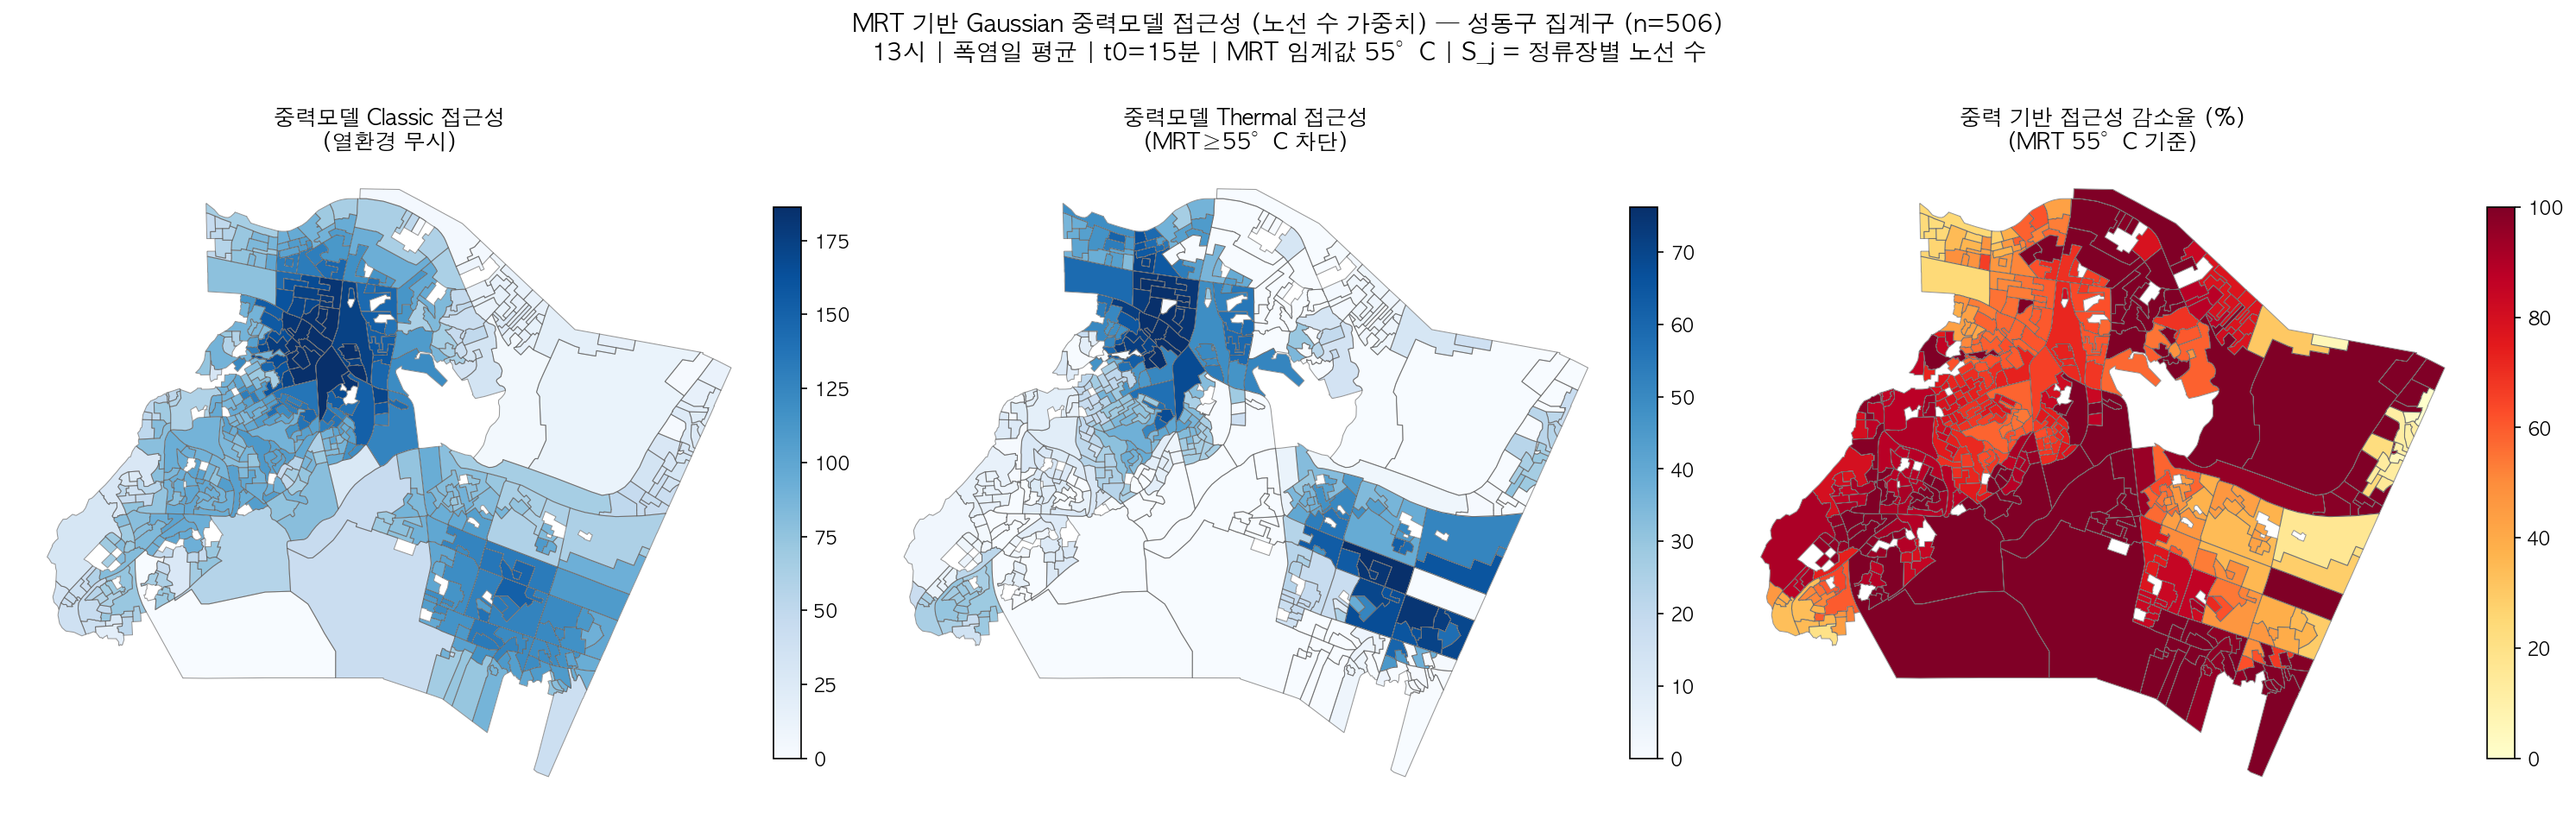
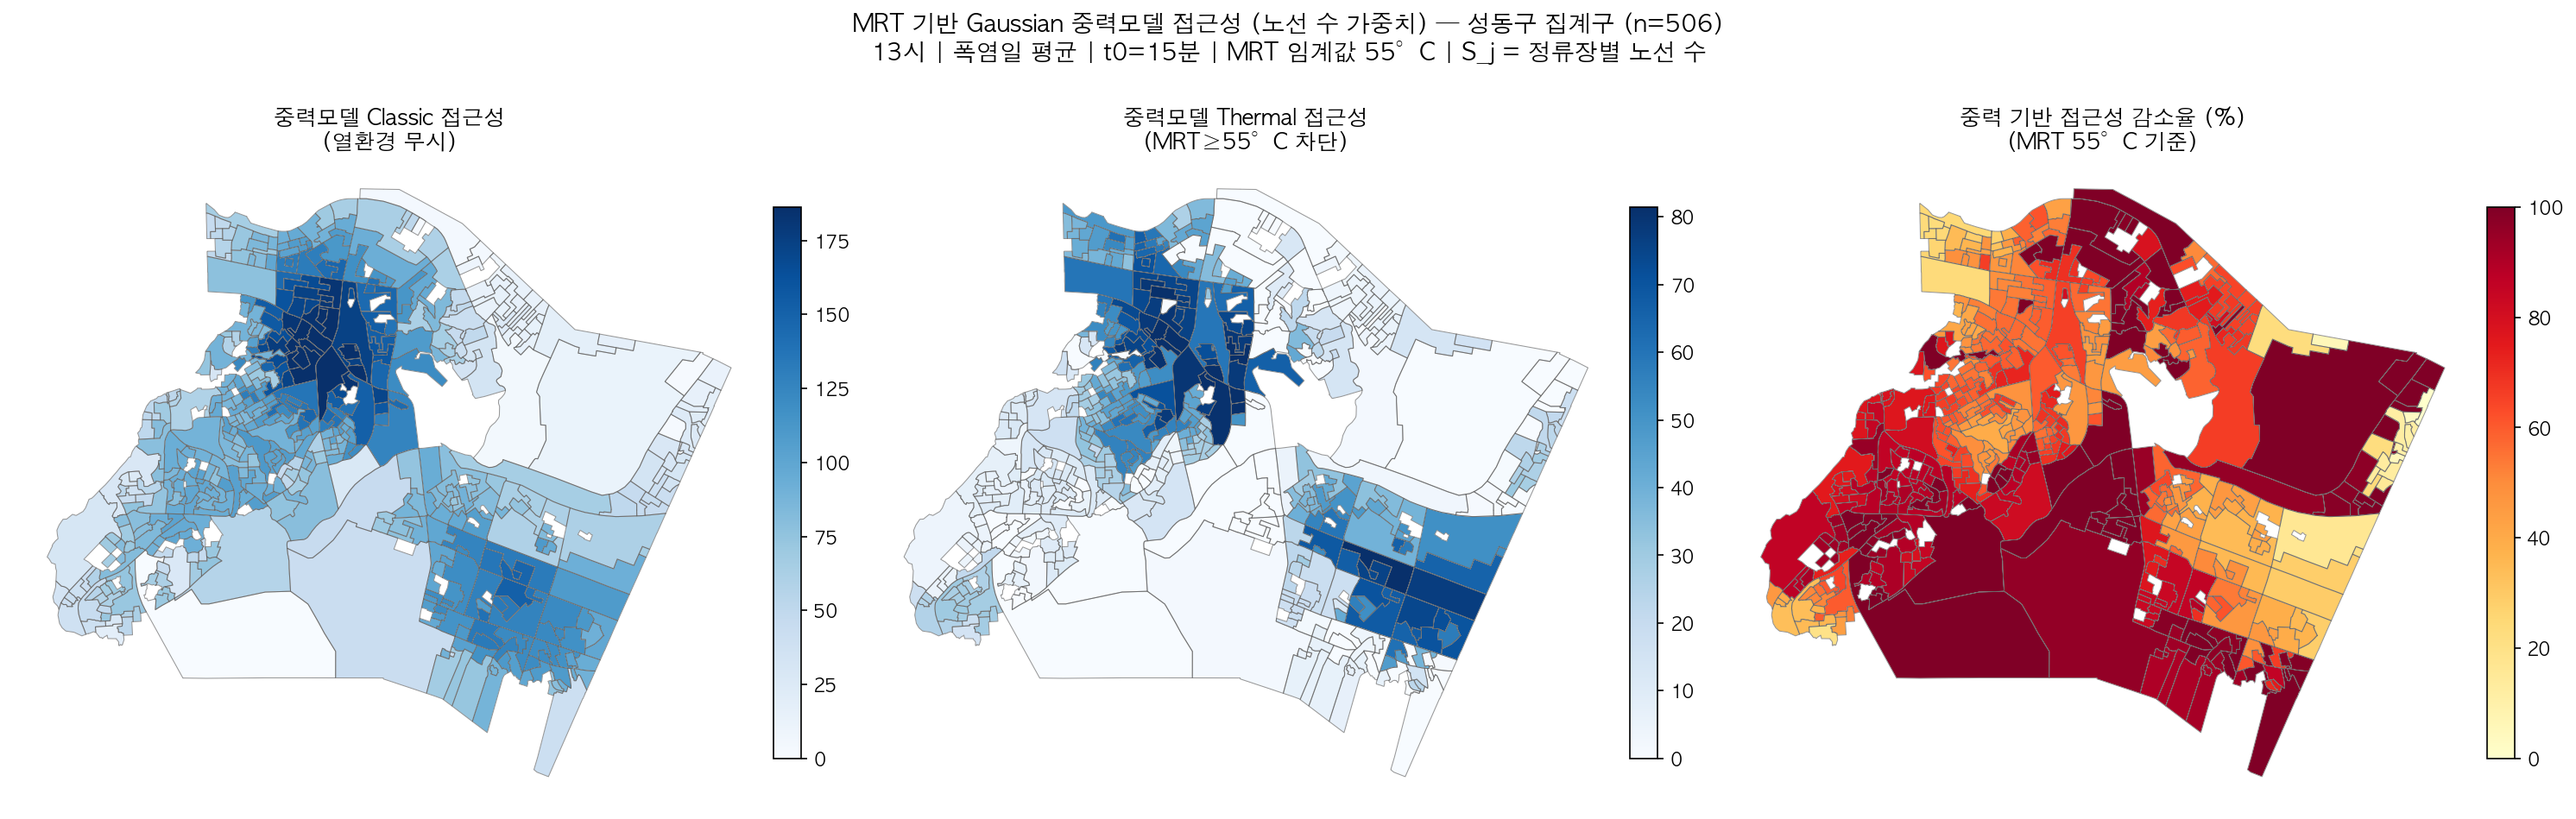
Fix: study_note 수치 최신화 + 누락 파일 커밋
- Thermal_Catchment.md: 평균 감소율 67.6%→68.0%, 완전차단 69개(13.6%)→75개(13.3%)
- SVF.md, Monte_Carlo.md: 캐노피 수정 후 내용 반영본
- 15_svf_per_link.py: 도시숲 전체 범주 + 10m 캐노피 높이 적용 버전
- figures: mc/gravity 최신 그래프

diff --git a/Thermal_Catchment/02_코드/15_svf_per_link.py b/Thermal_Catchment/02_코드/15_svf_per_link.py
@@ -39,6 +39,7 @@ OUT_PATH   = os.path.join(RES_DIR, 'link_svf_canopy.csv')
 
 BULD_BUFFER  = 20   # m — H 계산을 위한 링크 주변 건물 탐색 반경
 CANOPY_BUFFER = 15  # m — 가로수 캐노피 측정 링크 버퍼
+TREE_HEIGHT  = 10.0  # m — 수목 캐노피 높이 (UMEP TreePlanter Tutorial; Lindberg et al.)
 
 # 도로 유형별 표준 폭 (m) — 국토부 도로설계기준 / OSM 실측 통계
 # 양방향 차로 포함 전체 노면폭 기준
@@ -98,8 +99,8 @@ buld = buld[buld.geometry.is_valid].copy().reset_index(drop=True)
 buld_sindex = buld.sindex
 print(f"  성동구 건물: {len(buld):,}개 | 평균높이 {buld['height_m'].mean():.1f}m")
 
-# ── 녹지(가로수) 데이터 로드 ────────────────────────────────────────────
-print("가로수 데이터 로드 중...")
+# ── 녹지(전체 도시숲) 데이터 로드 ──────────────────────────────────────
+print("도시숲 데이터 로드 중...")
 green_raw = gpd.read_file(GREEN_PATH)
 bbox_gdf = gpd.GeoDataFrame(
     geometry=[Point(127.015, 37.535), Point(127.065, 37.565)], crs='EPSG:4326'
@@ -107,35 +108,38 @@ bbox_gdf = gpd.GeoDataFrame(
 xmin, ymin = bbox_gdf.geometry[0].x, bbox_gdf.geometry[0].y
 xmax, ymax = bbox_gdf.geometry[1].x, bbox_gdf.geometry[1].y
 green = green_raw.cx[xmin:xmax, ymin:ymax].copy()
-street_trees = green[green['U2_NAM'] == '가로수'].copy().reset_index(drop=True)
+street_trees = green.copy().reset_index(drop=True)   # 도시숲·마을숲·경관숲·학교숲·가로수 전체
 tree_sindex = street_trees.sindex
-print(f"  성동구 가로수: {len(street_trees):,}개")
+print(f"  성동구 도시숲(전체): {len(street_trees):,}개 | 유형: {street_trees['U2_NAM'].value_counts().to_dict()}")
 
 
 # ── SVF 계산 함수 (Oke 1987) ────────────────────────────────────────────
-def calc_svf_hw(link_geom, highway_val):
+def calc_svf_hw(link_geom, highway_val, canopy_ratio=0.0):
     """
     Oke(1987) H/W street canyon 공식으로 SVF 계산
-      H = 링크 버퍼 20m 내 건물 평균 높이
+      H_eff = 건물 평균 높이 + TREE_HEIGHT × canopy_ratio  (캐노피 차폐 반영)
       W = 도로 유형별 표준 폭
-      SVF = 1 / sqrt(1 + (H/W)^2)
-    건물이 없으면 SVF = 1.0 (개활지)
+      SVF = 1 / sqrt(1 + (H_eff/W)^2)
+    건물·캐노피 모두 없으면 SVF = 1.0 (개활지)
+    캐노피 높이 기준: UMEP TreePlanter Tutorial (Lindberg et al.)
     """
     W = get_width(highway_val)
     buf = link_geom.buffer(BULD_BUFFER)
 
     candidates_idx = list(buld_sindex.intersection(buf.bounds))
     if not candidates_idx:
-        return 1.0, 0.0, W   # svf, H, W
+        H_bld = 0.0
+    else:
+        cands = buld.iloc[candidates_idx]
+        cands = cands[cands.geometry.intersects(buf)]
+        H_bld = float(cands['height_m'].mean()) if len(cands) > 0 else 0.0
 
-    cands = buld.iloc[candidates_idx]
-    cands = cands[cands.geometry.intersects(buf)]
-    if len(cands) == 0:
-        return 1.0, 0.0, W
+    H_eff = H_bld + TREE_HEIGHT * canopy_ratio
+    if H_eff == 0.0:
+        return 1.0, round(H_bld, 1), W
 
-    H = float(cands['height_m'].mean())
-    svf = 1.0 / np.sqrt(1.0 + (H / W) ** 2)
-    return round(svf, 4), round(H, 1), W
+    svf = 1.0 / np.sqrt(1.0 + (H_eff / W) ** 2)
+    return round(svf, 4), round(H_bld, 1), W
 
 
 def calc_canopy_ratio(link_geom):
@@ -163,8 +167,8 @@ for i, (idx, row) in enumerate(edges_utm.iterrows()):
 
     u, v    = idx[0], idx[1]
     hw      = row.get('highway', 'unclassified')
-    svf, H, W = calc_svf_hw(row.geometry, hw)
-    canopy  = calc_canopy_ratio(row.geometry)
+    canopy  = calc_canopy_ratio(row.geometry)   # SVF보다 먼저 계산
+    svf, H, W = calc_svf_hw(row.geometry, hw, canopy_ratio=canopy)
 
     rows.append({
         'u':            u,

diff --git a/study_note/02_접근성분석/Thermal_Catchment.md b/study_note/02_접근성분석/Thermal_Catchment.md
@@ -26,9 +26,9 @@ $$C_i^{thermal} = \{j \in G^{thermal} : d_{ij}^{thermal} \leq 15\text{분}\}$$
 3. $G^{thermal}$에서 Dijkstra → Thermal Catchment
 4. 두 결과를 비교 → TARR 계산
 
-**결과**:
-- Classic 평균: 집계구당 **40.6개** 정류장 접근 가능
-- Thermal 평균: **10.9개** 정류장으로 감소
+**결과** (지하철 7 + 버스 482 = 489개 정류장 기준 | 도시숲 캐노피 반영):
+- Classic 평균: 집계구당 **54.0개** 정류장 접근 가능 (캐노피 무관, 전체 네트워크 기준)
+- Thermal 평균: **17.0개** 정류장으로 감소 (도시숲 캐노피 10m 반영)
 
 ---
 
@@ -49,9 +49,11 @@ $$C_i^{thermal} = \{j \in G^{thermal} : d_{ij}^{thermal} \leq 15\text{분}\}$$
 
 | 항목 | Classic | Thermal |
 |------|---------|---------|
-| 평균 접근 정류장 수 | 40.6개 | 10.9개 |
-| 집계구 평균 감소율 | — | **72.9%** |
-| 완전 차단 집계구 | 0개 | 87개 (17.2%) |
+| 평균 접근 정류장 수 | 54.0개 | 17.0개 |
+| 집계구 평균 감소율 | — | **68.0%** (중앙값 67.5%) |
+| 완전 차단 집계구 | 0개 | 75개 (13.3%) |
+
+> 도시숲 전체(도시숲·마을숲·경관숲·학교숲·가로수) 캐노피 10m 반영 (UMEP TreePlanter Tutorial 기준)
 
 ---
 

diff --git a/study_note/03_불확실성분석/Monte_Carlo.md b/study_note/03_불확실성분석/Monte_Carlo.md
@@ -23,10 +23,12 @@
 | MRT 임계값 | 제거 링크 | TARR 평균 |
 |-----------|---------|---------|
 | 45°C | 7,814개 | 99.8% |
-| 53°C | 4,374개 | 88.6% |
-| **55°C** | **3,010개** | **73.3%** |
-| 57°C | 1,953개 | 39.0% |
-| 65°C | 거의 없음 | 0.6% |
+| 53°C | 3,921개 | 87.2% |
+| **55°C** | **2,350개** | **68.0%** |
+| 57°C | 1,288개 | 33.7% |
+| 65°C | 거의 없음 | 0.0% |
+
+> 도시숲 전체 캐노피 반영 후 수치 (UMEP 10m 기준, 2026-05-20 업데이트)
 
 ### Step 2. 임계값 분포 설정
 $$\text{threshold} \sim \mathcal{N}(55°C,\ 4^2)$$
@@ -49,9 +51,9 @@ $$\widetilde{\text{TARR}}_i \quad \text{(중앙값)}, \qquad \left[\text{TARR}_i
 
 | 지표 | 값 |
 |------|-----|
-| TARR 중앙값 (평균) | **70.2%** |
-| 95% CI 범위 | 0.3% ~ 98.3% |
-| 단일 임계값(55°C) 결과 | 73.3% |
+| TARR 중앙값 | **65.0%** |
+| 95% CI 범위 | 0.1% ~ 98.2% |
+| 단일 임계값(55°C) 결과 | 68.0% |
 
 **CI 폭이 넓은 이유**: 53~57°C 구간에서 TARR가 S자 곡선의 변곡점에 걸려있기 때문. 오류가 아니라 이 구간의 민감성을 보여주는 발견입니다.
 

diff --git a/study_note/01_열환경지표/SVF.md b/study_note/01_열환경지표/SVF.md
@@ -46,9 +46,12 @@ SVF가 높으면 하늘 복사($L_{sky}$)를 더 많이 받고, 낮으면 건물
 |------|------|------|
 | **어안렌즈 사진** | 실측 SVF | 15,000개 링크에 다 찍을 수 없음 |
 | **DSM + 수목 LiDAR** | 가장 정확한 계산 | 고가 데이터, 구축 어려움 |
-| **OSM 건물만** | 이 연구에서 사용 | 수목 미반영 → SVF 과대 추정 가능성 |
+| **OSM 건물 + 도시숲 캐노피** | 이 연구에서 사용 (2026-05-20 업데이트) | UMEP 10m 캐노피를 유효 H에 합산 |
 
-**한계로 명시**: 수목 차폐를 정확히 반영 못한 점이 방법론 한계 중 하나
+**반영 방식**: $H_{eff} = H_{건물} + H_{캐노피} \times \text{canopy\_ratio}$  
+- $H_{캐노피}$ = 10m (UMEP TreePlanter Tutorial; Lindberg et al.)  
+- 도시숲 전체(도시숲·마을숲·경관숲·학교숲·가로수) 반영  
+- 캐노피 있는 링크: 4,403개 (56.3%), 평균 캐노피 비율 11.6%
 
 ---
 
